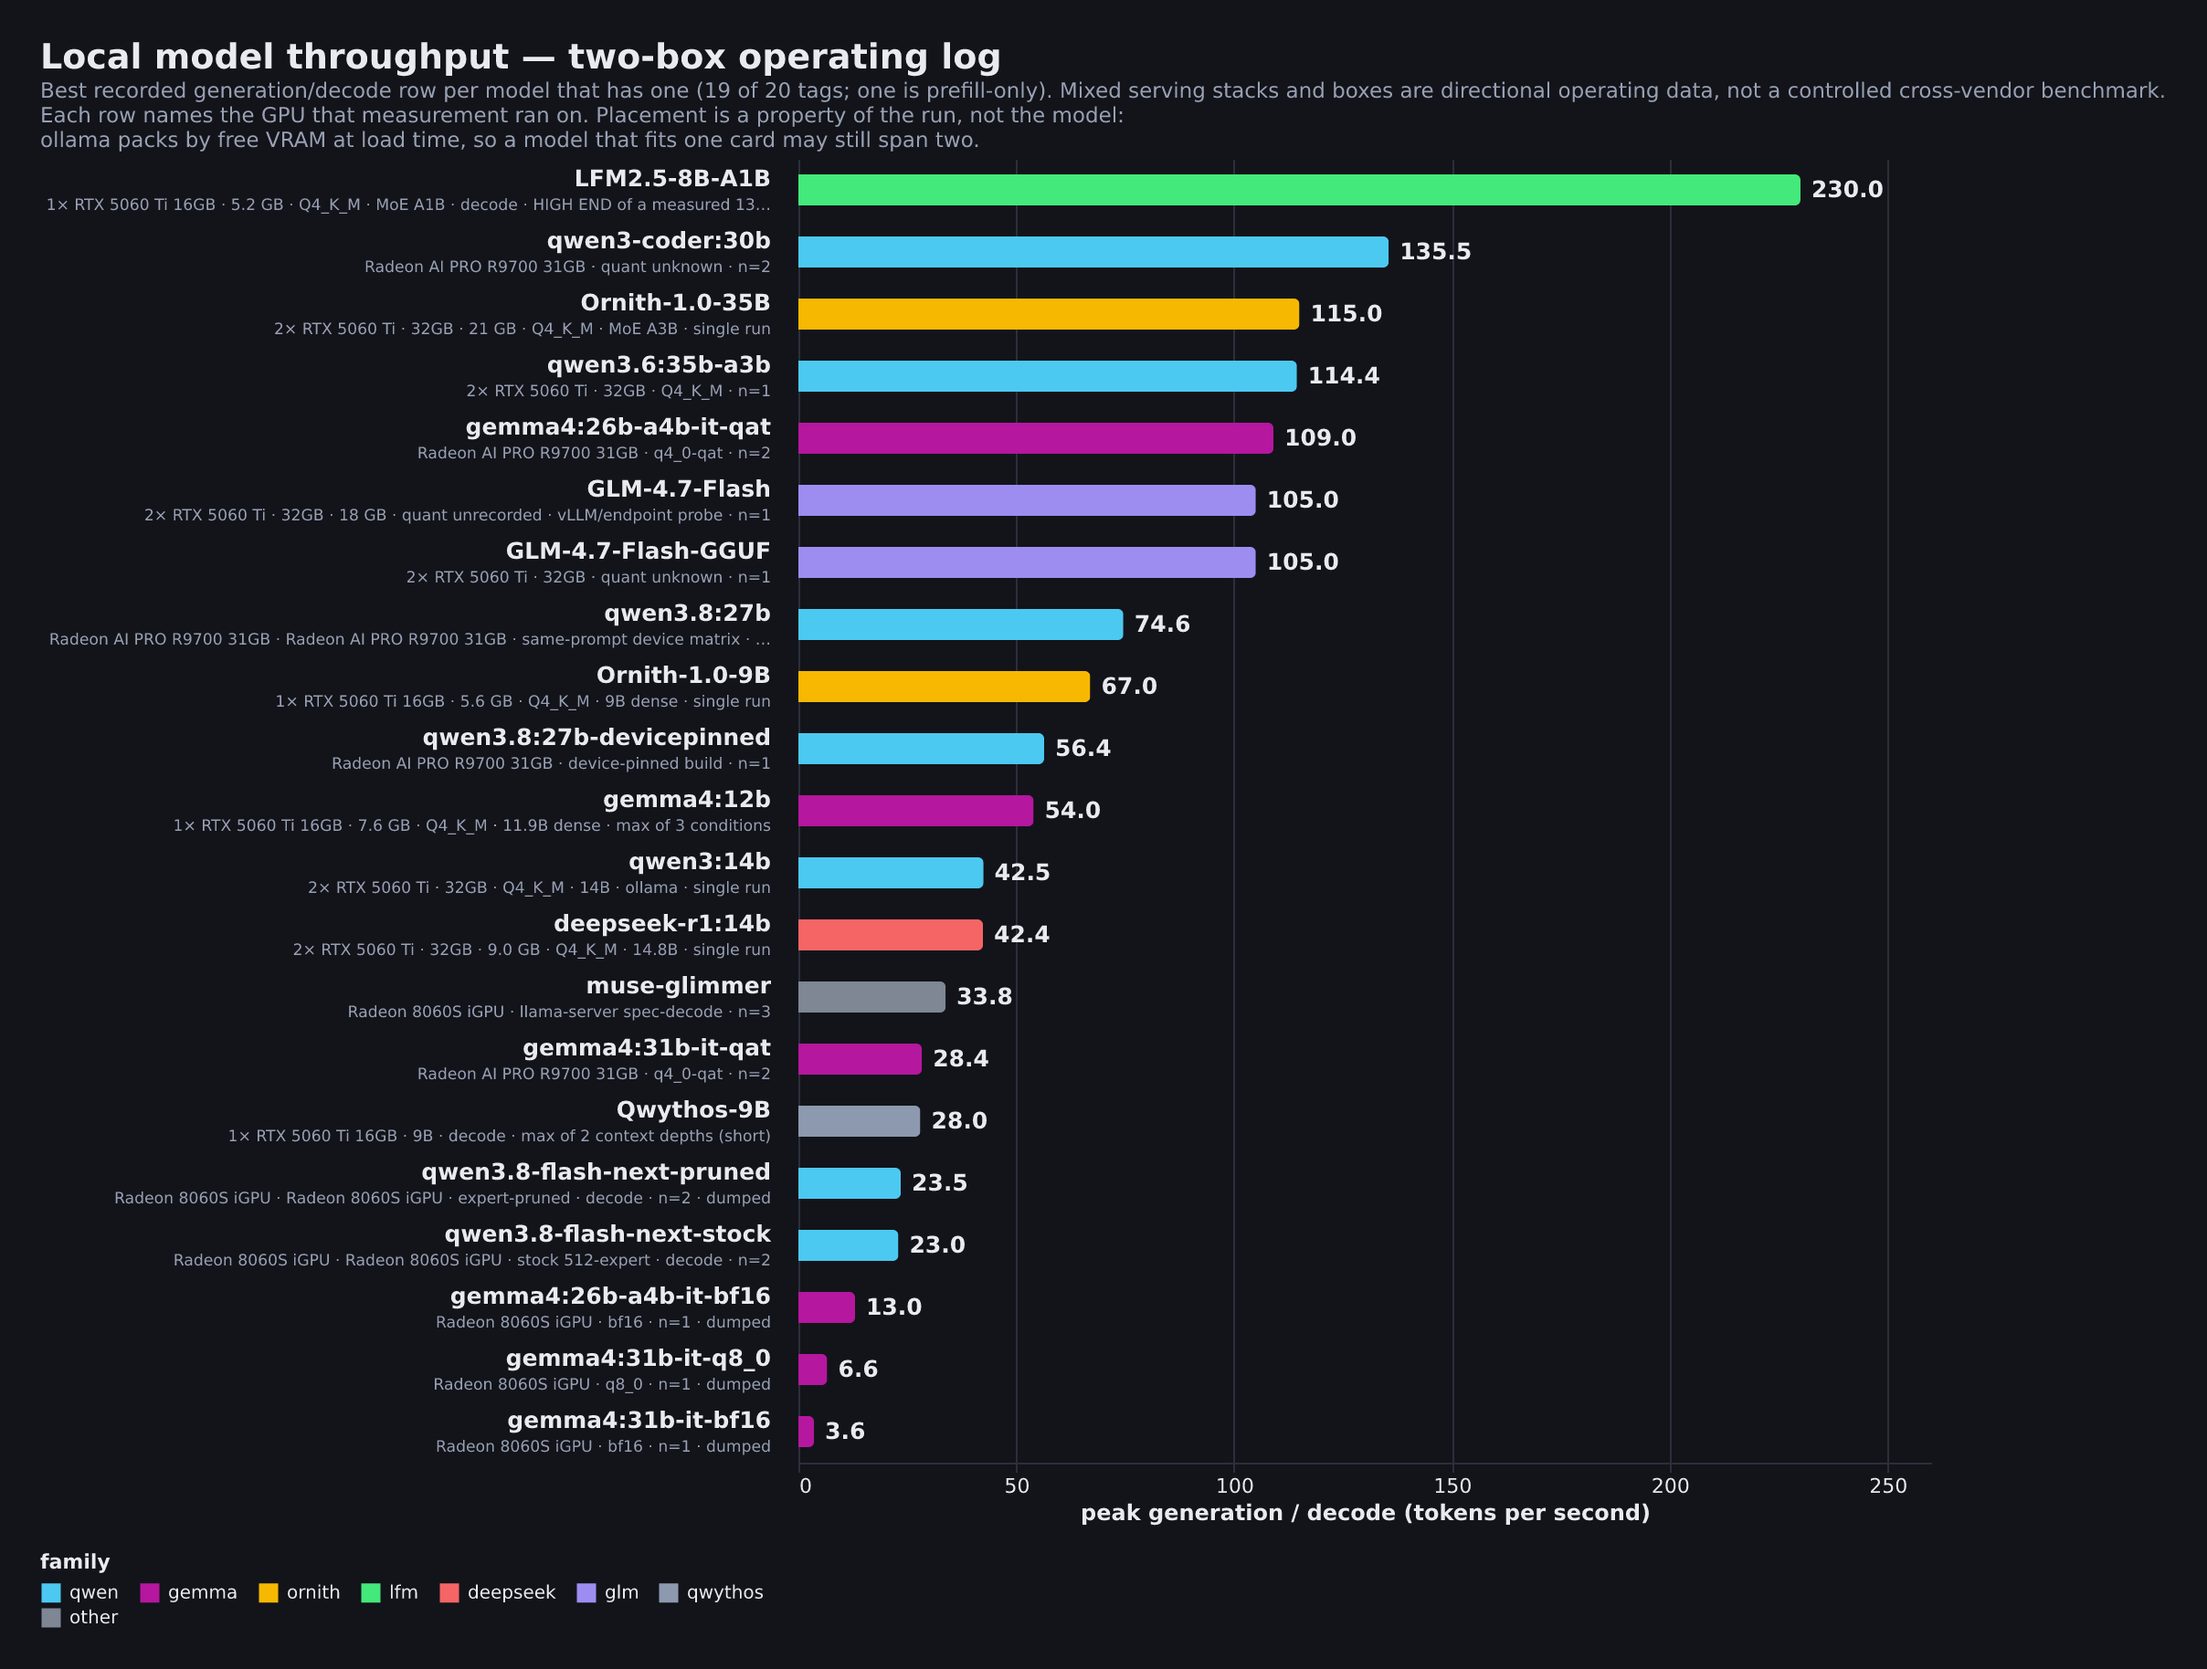
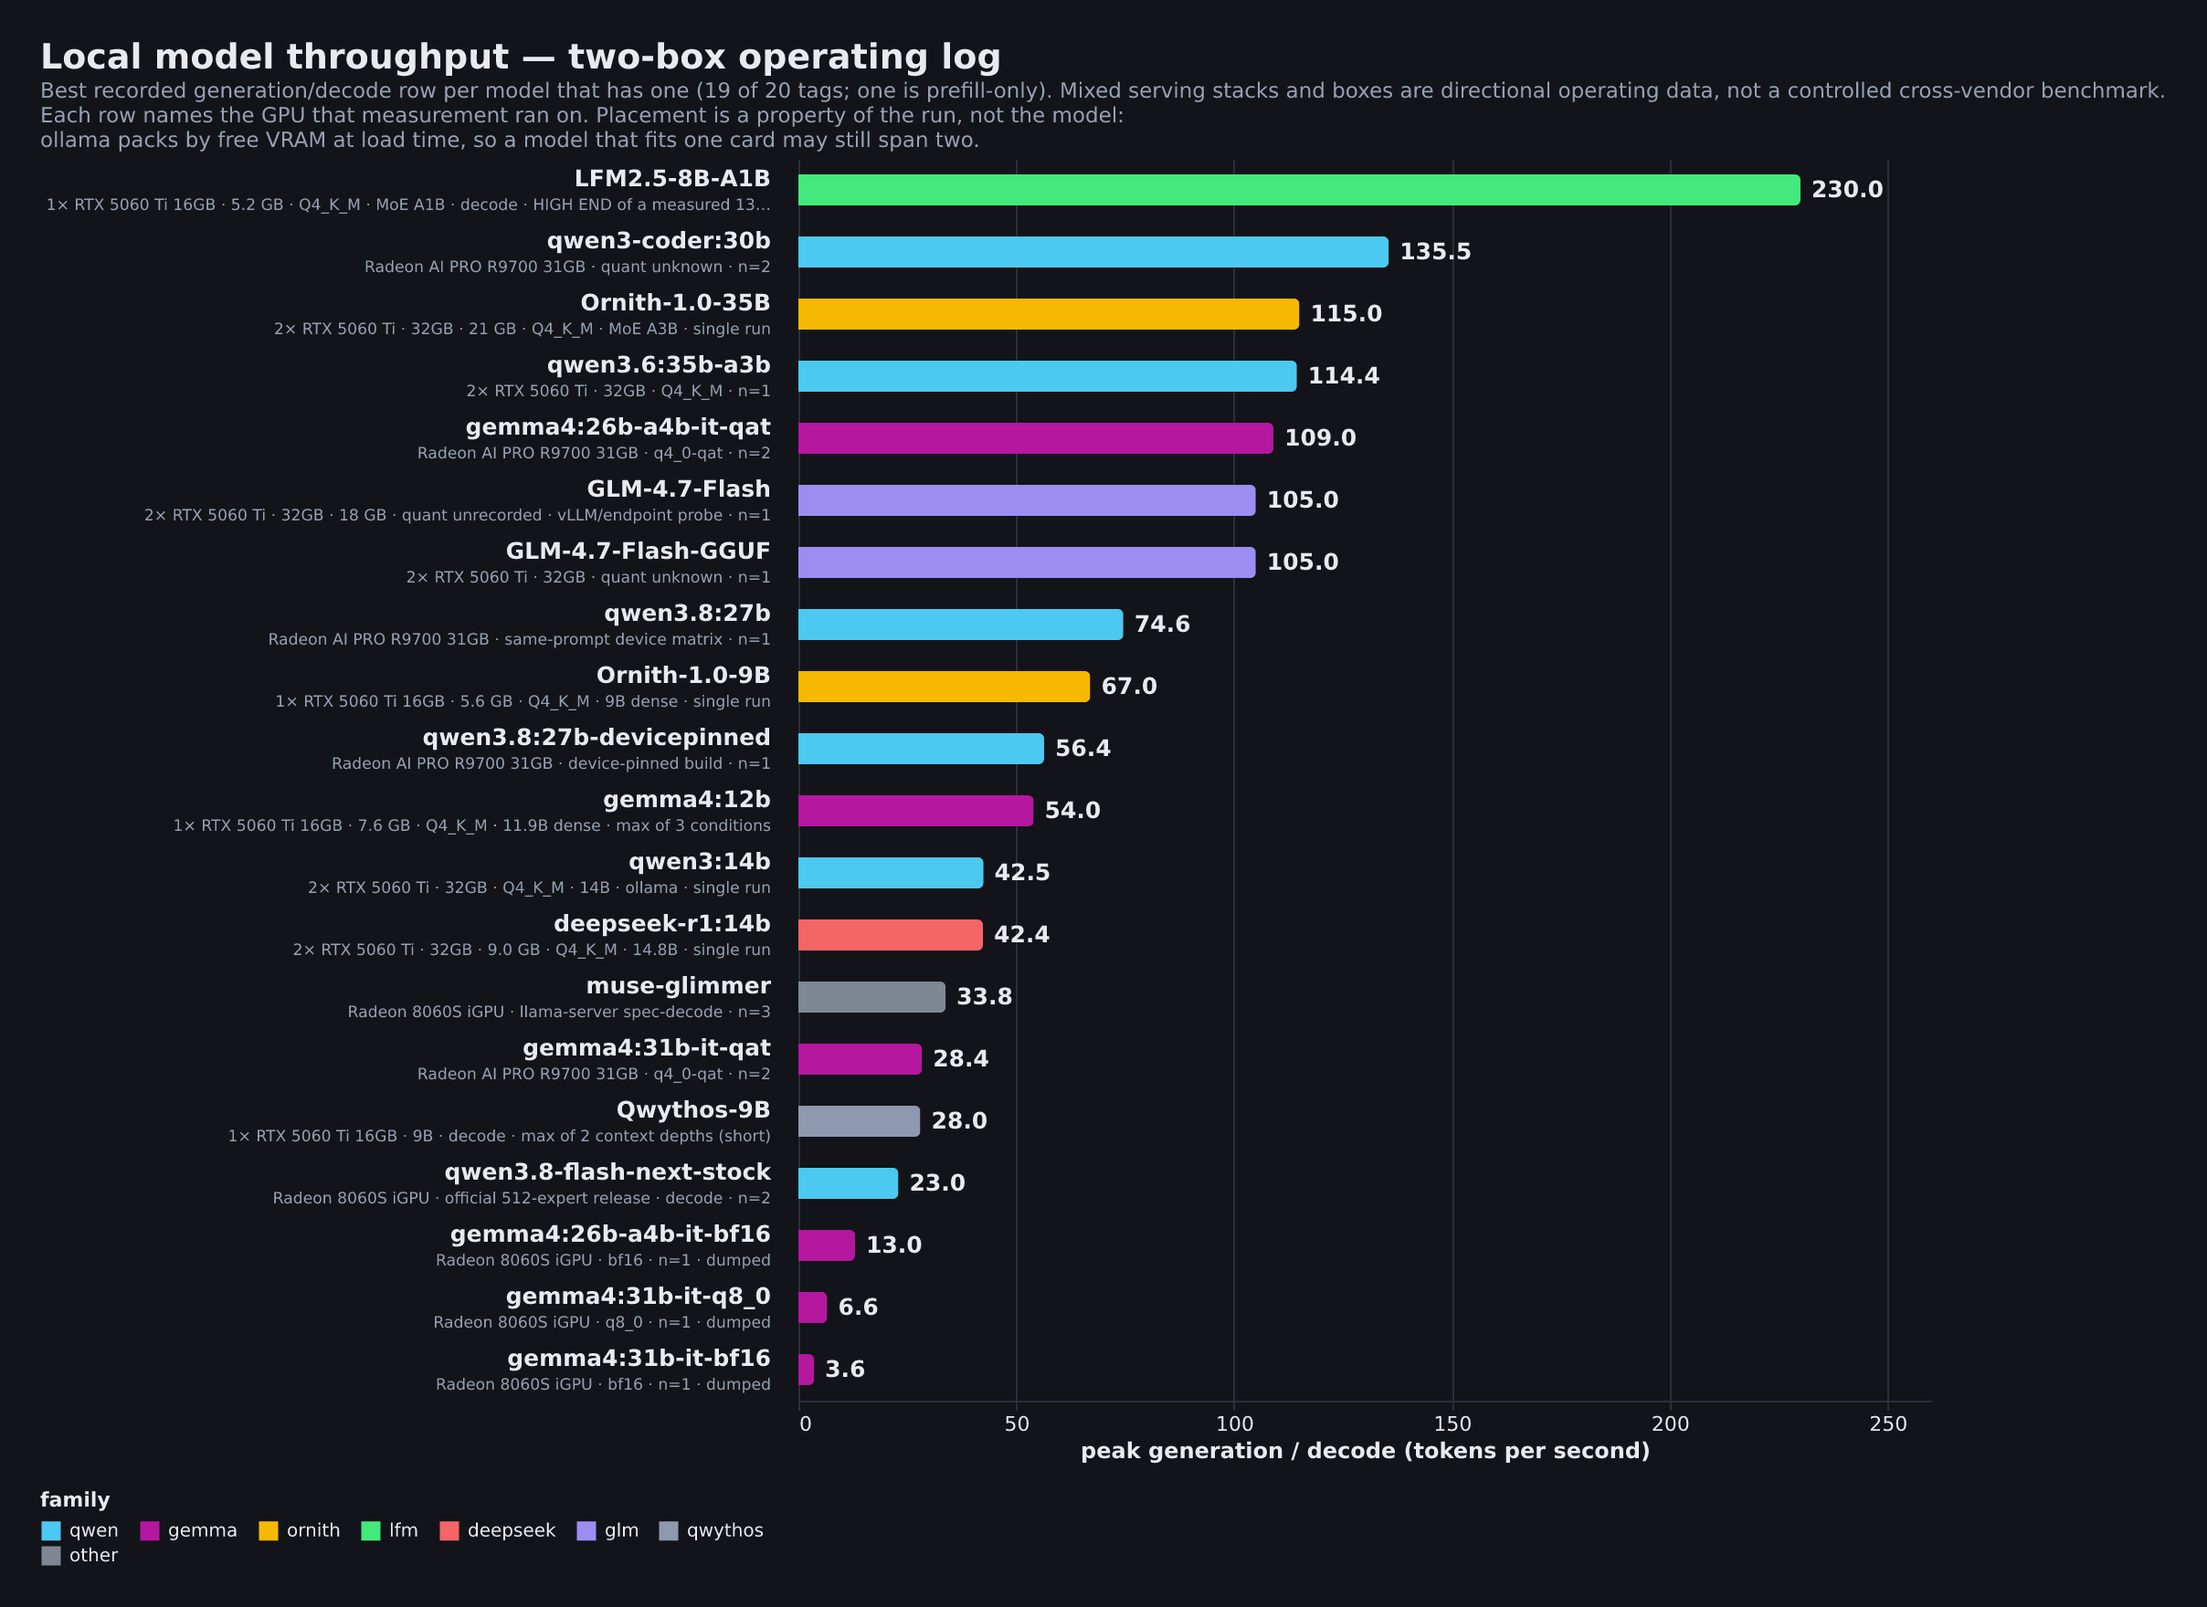
bench: show the official Flash-Next, and make the x-axis cover its own data
Two reader-facing problems on the same chart.

The before/after panel carried two qwen3.8-flash-next rows whose A/B was stock
versus a third-party expert prune. That put a pruned community fork in front of
everyone reading the chart, when the model almost every reader will actually run
is the official release. Both prune rows are gone from the before/after panel and
the pruned fork is gone from the peak panel; the official 512-expert build stays,
at its measured 22.96 tok/s decode. The prune arms remain in the CSV — the log
keeps what was measured — they simply are not what the charts advertise.

Removing them returns the same-model tuning group to its three original rows and
a +2.0% mean, and the panel to seven pairs. README prose follows.

The x-axis domain was hardcoded to [0, 250]. A row measured at 355 tok/s drew
past the last labelled tick into unlabelled space, so the point was visible but
unreadable. Both panels now derive the domain from their own data, keep a step of
headroom so a marker never lands on the boundary, and assert that the domain
covers the largest value — a chart that cannot label what it plots should refuse
to render. Checked against the value that caused it: 355.45 now yields a [0, 400]
domain with eight ticks.

Also fixes two peak rows that printed their GPU twice ("Radeon AI PRO R9700 31GB
· Radeon AI PRO R9700 31GB"). `_detail` derives the silicon from the CSV and
strips the box·device prefix, so a note naming the GPU literally gets it twice;
[…]

diff --git a/bench/make_charts.py b/bench/make_charts.py
@@ -1,6 +1,6 @@
 #!/usr/bin/env python3
 """Fleet throughput composite via Vega-Lite + vl-convert. MEASURED DATA ONLY."""
-import json, vl_convert as vlc
+import json, math, vl_convert as vlc
 
 BG, FG, MUTED, GRID = "#12141a", "#e8eaf0", "#98a0b3", "#2a2f3a"
 FAM = {"qwen": "#4cc9f0", "gemma": "#b5179e", "ornith": "#f7b801", "lfm": "#43e97b",
@@ -20,9 +20,8 @@ peak = [
     ("Ornith-1.0-9B",          67.0, "ornith",   "5.6 GB · Q4_K_M · 9B dense · single run"),
     ("qwen3.8:27b-devicepinned", 56.4, "qwen",   "box-b · dgpu-b · device-pinned build · n=1"),
     ("gemma4:12b",             54.0, "gemma",    "7.6 GB · Q4_K_M · 11.9B dense · max of 3 conditions"),
-    ("qwen3.8:27b",            74.6, "qwen",     "Radeon AI PRO R9700 31GB · same-prompt device matrix · n=1"),
-    ("qwen3.8-flash-next-pruned", 23.5, "qwen",  "Radeon 8060S iGPU · expert-pruned · decode · n=2 · dumped"),
-    ("qwen3.8-flash-next-stock", 22.96, "qwen",  "Radeon 8060S iGPU · stock 512-expert · decode · n=2"),
+    ("qwen3.8:27b",            74.6, "qwen",     "box-b · dgpu-b · same-prompt device matrix · n=1"),
+    ("qwen3.8-flash-next-stock", 22.96, "qwen",  "box-b · igpu · official 512-expert release · decode · n=2"),
     ("qwen3:14b",             42.49, "qwen",     "Q4_K_M · 14B · ollama · single run"),
     ("deepseek-r1:14b",       42.37, "deepseek", "9.0 GB · Q4_K_M · 14.8B · single run"),
     ("muse-glimmer",           33.8, "other",    "box-b · igpu · llama-server spec-decode · n=3"),
@@ -92,8 +91,6 @@ ab = [
     ("qwen3-coder:30b · spec-decode ngram-mod",    95.6, 108.1, "tune", "same model + same prompt"),
     ("Ornith-35B-A3B · MoE accel (-ngl 8) · PREFILL pp2048",       115.7, 114.1, "tune", "claimed win did NOT reproduce"),
     ("Ornith-35B-A3B · MoE accel (-ngl 24) · PREFILL",      199.9, 188.7, "tune", "claimed win did NOT reproduce"),
-    ("qwen3.8-flash-next · expert prune · DECODE",   22.96,  23.50, "tune", "+2.4% is inside this box's ~6-10% noise floor"),
-    ("qwen3.8-flash-next · expert prune · PREFILL pp512",  312.64, 355.45, "tune", "stock's OWN two runs spread 12% — not separable"),
     ("qwen3.8:27b · 2×16GB over PCIe → one 32GB card", 21.8, 74.6, "place", "same prompt, same model · different device"),
 ]
 p2 = []
@@ -125,11 +122,35 @@ sub2 = (f"mean of the {len(pos)} that improved: +{sum(pos)/len(pos):.1f}%   ·  
         # figure cannot be read as a per-run guarantee.
         f"same-model tuning (mean of {len(tune)}): {sum(tune)/len(tune):+.1f}%")
 
+
+def tps_axis(values, step=50):
+    """An x-domain that always contains its data, with ticks every `step`.
+
+    This was hardcoded to [0, 250]. A row measured at 355 tok/s then drew past the
+    last labelled tick, into unlabelled space: the reader can see the point but
+    cannot read its value. A hand-set axis bound is one more number that does not
+    recompute when the data moves.
+    """
+    top = max(values)
+    hi = max(int(math.ceil(top / step) * step), step)
+    # A value landing exactly on the bound draws its marker half outside the plot,
+    # which reads as clipped even though the number is in range. Give it one step.
+    if hi - top < step * 0.05:
+        hi += step
+    # A domain that does not cover its data understates the size of what it plots,
+    # so the chart must refuse to render rather than mislead.
+    assert hi >= top, f"axis domain {hi} does not cover the largest value {top}"
+    return {"domain": [0, hi]}, {"tickCount": hi // step}
+
+
 AX = {"labelColor": FG, "titleColor": FG, "gridColor": GRID, "domainColor": GRID,
       "tickColor": GRID, "labelFontSize": 11, "titleFontSize": 12}
 order = [m for m, *_ in peak]
 
 ROWH1 = 34
+PEAK_SCALE, PEAK_TICKS = tps_axis([r["tps"] for r in p1])
+AB_SCALE, AB_TICKS = tps_axis([r["hi"] for r in p2] + [r["lo"] for r in p2])
+
 p1_text = {
     "width": 400, "height": len(peak) * ROWH1,
     "data": {"values": p1},
@@ -153,7 +174,7 @@ p1_bars = {
         {"mark": {"type": "bar", "height": 17, "cornerRadiusEnd": 3},
          "encoding": {"x": {"field": "tps", "type": "quantitative",
                             "title": "peak generation / decode  (tokens per second)",
-                            "scale": {"domain": [0, 250]}, "axis": {"tickCount": 6}},
+                            "scale": PEAK_SCALE, "axis": PEAK_TICKS},
                       "color": {"field": "family", "type": "nominal",
                                 "scale": {"domain": list(FAM), "range": [FAM[k] for k in FAM]},
                                 "legend": {"title": "family", "labelColor": FG, "titleColor": FG,
@@ -199,7 +220,7 @@ p2_plot = {
     "layer": [
         {"mark": {"type": "rule", "size": 3, "color": "#3a4152"},
          "encoding": {"x": {"field": "lo", "type": "quantitative", "title": "tokens per second",
-                            "scale": {"domain": [0, 250]}, "axis": {"tickCount": 6}},
+                            "scale": AB_SCALE, "axis": AB_TICKS},
                       "x2": {"field": "hi"}}},
         {"mark": {"type": "point", "filled": True, "size": 140, "color": "#6b7280"},
          "encoding": {"x": {"field": "before", "type": "quantitative"}}},

diff --git a/README.md b/README.md
@@ -237,7 +237,7 @@ loaded as 5435 / 5315 MiB across both, while `lfm:8b` at 5.2 GB stayed on a sing
 
 ![Peak throughput per model](bench/01_peak_throughput.png)
 
-**Before / after.** Nine A/B pairs, grouped by what actually changed between the two runs: the
+**Before / after.** Seven A/B pairs, grouped by what actually changed between the two runs: the
 model, a flag on one model, or the device it landed on. Each pair holds the rest constant, and the
 deltas below are the ones the chart already shows.
 
@@ -246,11 +246,9 @@ corroborate (21 → 100), the 9.3K-tok artifact (19 → 90), and the 5-seeded-bu
 Group mean **+348.3%**. Seeded-bug recall on the two sets the chart labels: 18/18 vs 16/18 and 5/5 vs
 4/5; the long-artifact row is quality parity. Auditor wall-clock on the 5-bug set: 41.2s → 20.5s.
 
-Same-model tuning, five rows: **+13.1%** speculative decoding on qwen3-coder:30b (95.6 → 108.1
-tok/s, n=2, same prompt); **−1.4%** and **−5.6%** on llama.cpp `pp2048` prefill (stock vs MoE-offload
-accelerator, -ngl 8 and 24); and an expert-pruned qwen3.8-flash-next at **+2.4%** decode and
-**+13.7%** `pp512` prefill, both inside this box's noise floor — stock's own two prefill runs spread
-12%, so that pair is not separable from noise. Group mean **+4.4%**. Decode was not the prefill
+Same-model tuning, three rows: **+13.1%** speculative decoding on qwen3-coder:30b (95.6 → 108.1
+tok/s, n=2, same prompt), and **−1.4%** and **−5.6%** on llama.cpp `pp2048` prefill (stock vs
+MoE-offload accelerator, -ngl 8 and 24). Group mean **+2.0%**. Decode was not the prefill
 measurement; the claimed offload win did not reproduce. The two red rows stay red.
 
 Placement is its own group, one row: the same prompt and the same model on a different device.
